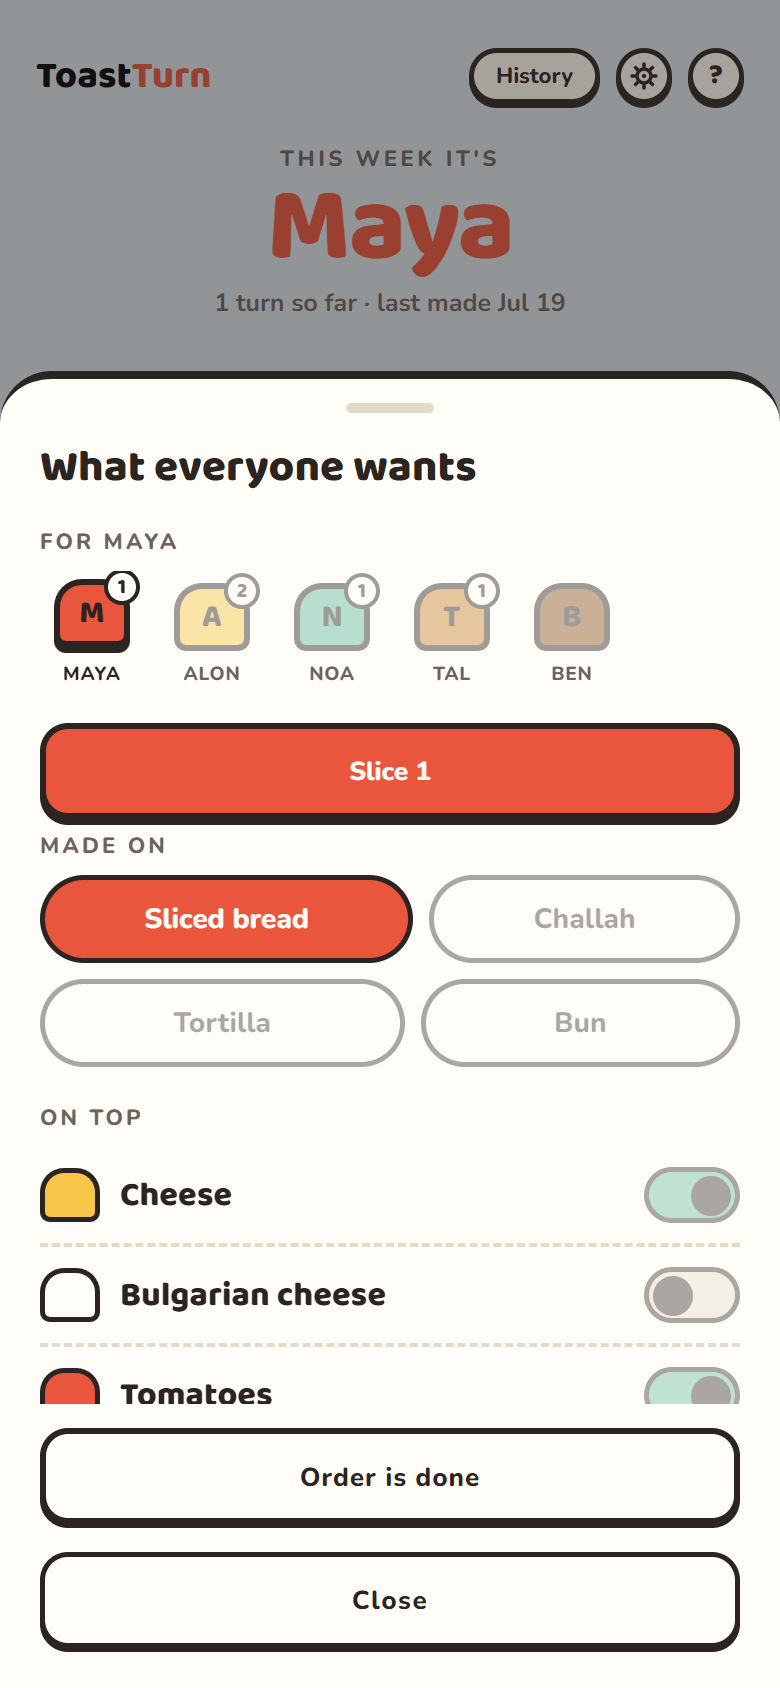
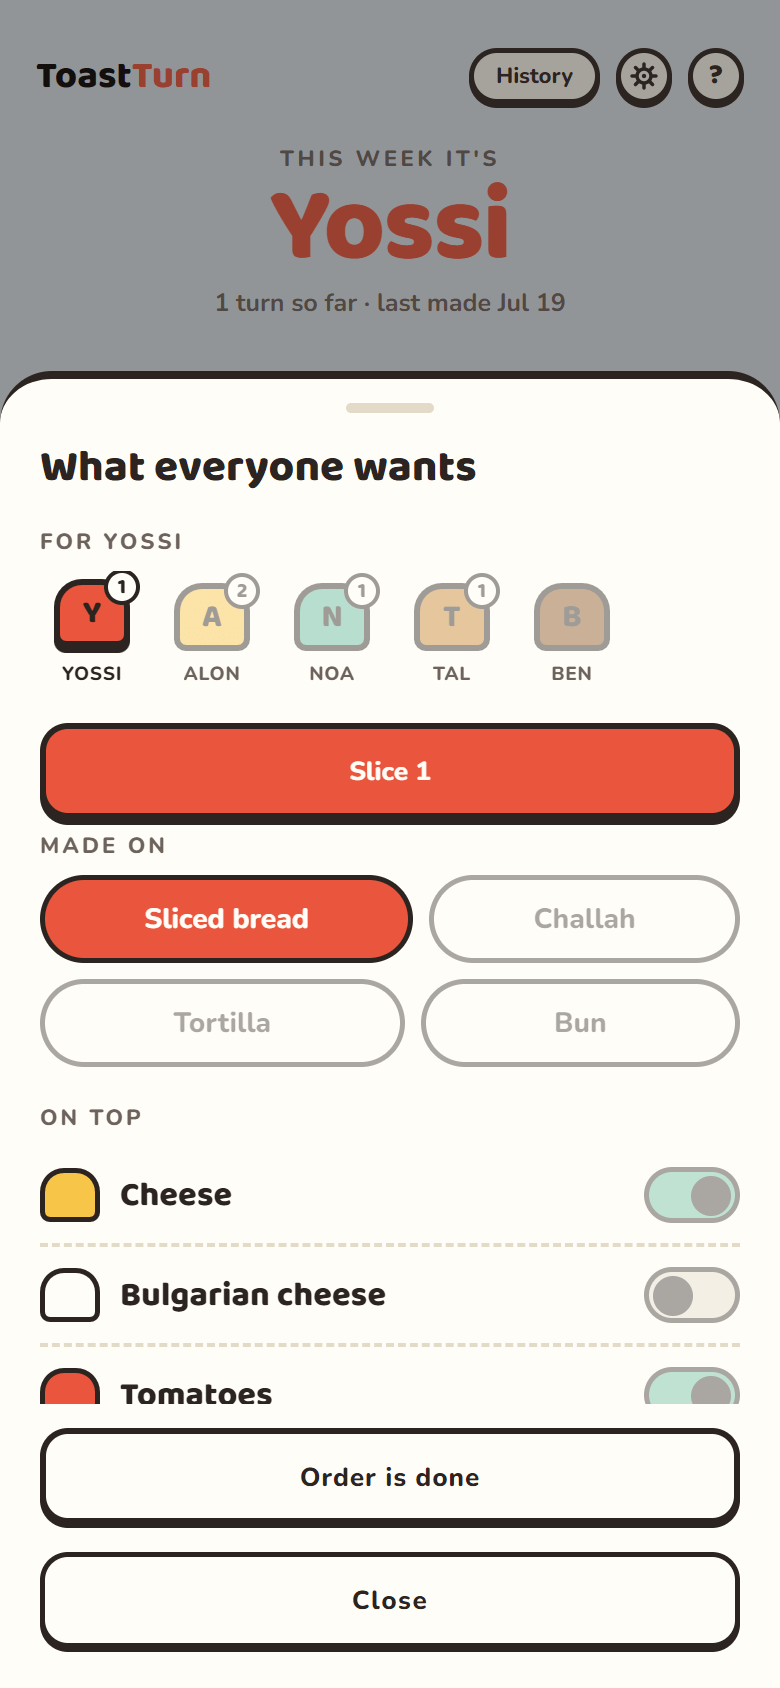
content(toast-turn): refresh screenshots from upstream repo
Re-pull all seven screens from ToastTurn docs/screens and rebuild the
three-phone composite. The rotation now leads with Yossi instead of
Maya, so the two alt strings that named the person follow suit.

Changed region(s): [[0.3385, 0.0924, 0.6769, 0.1848], [0.1231, 0.3081, 0.2462, 0.3389], [0.0923, 0.3389, 0.1538, 0.4005]]

diff --git a/content/projects.ts b/content/projects.ts
@@ -58,13 +58,13 @@ export const PROJECTS: Project[] = [
       },
       {
         src: "/projects/toast-turn/home.png",
-        alt: "Home screen: this week it's Maya, with the toaster lever and the queue along the bottom",
+        alt: "Home screen: this week it's Yossi, with the toaster lever and the queue along the bottom",
         width: 780,
         height: 1688,
       },
       {
         src: "/projects/toast-turn/logged.png",
-        alt: "After the lever is pulled, Maya's turn is logged and Alon is up next",
+        alt: "After the lever is pulled, Yossi's turn is logged and Alon is up next",
         width: 780,
         height: 1688,
       },
